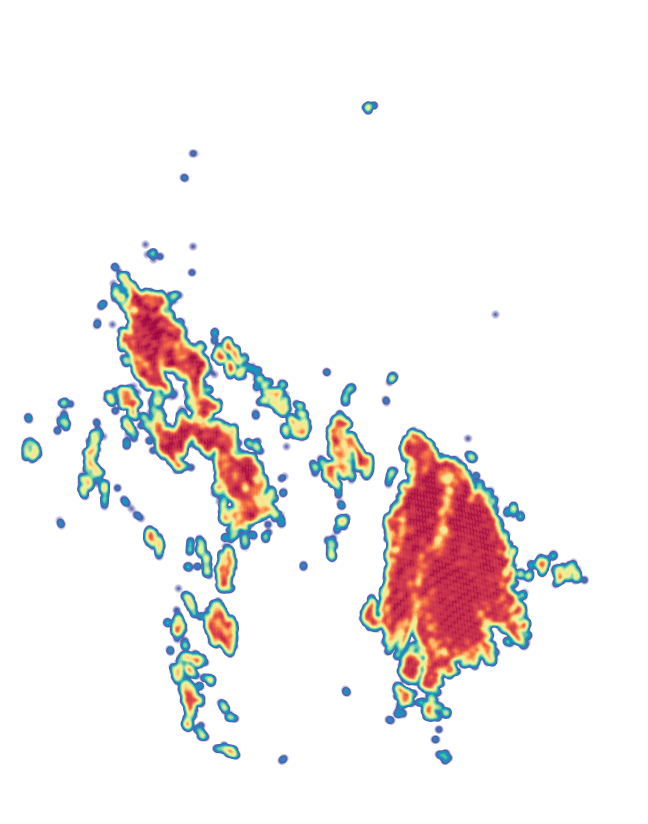
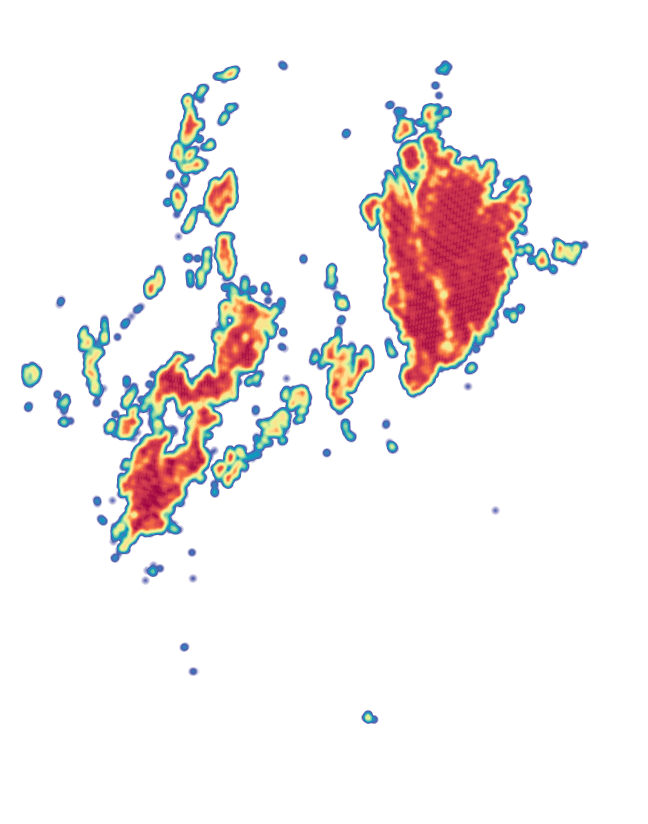
Minor improvements

diff --git a/data.cpp b/data.cpp
@@ -101,23 +101,6 @@ void Data::createCsv(const std::vector<Spherical>& sph, const std::vector<short 
  */
 void Data::maxColumn(const std::vector<Spherical> &sph){
     std::vector<short int> max_picture;
-    /*for (int i=0;i<L;i++)
-    {
-        short int max_col_i[Nx]; // all elements to 0
-        for (int j=0; j<Nx; j++){
-            max_col_i[j] = 0;
-        }
-        for (int j=0; j<Pixels[i].size(); j++){
-            if (Pixels[i][j] > max_col_i[j%Nx])
-            {
-                max_col_i[j%Nx] = Pixels[i][j];
-            }
-        }
-        for (auto elem : max_col_i)
-        {
-            max_picture.push_back(elem);
-        }
-    }*/
     for (int i=0;i<Pixels[0].size();i++)
     {
         short int max_col_i = 0;
@@ -162,7 +145,7 @@ void Data::plotImage(int Nx, int Ny, const std::vector<short int>& image, const 
     obtainLimitsMap(sph); // gives the maximum/minimum latitude and longitude as max_lat, min_lat, max_long, min_long
     for(int i = 0 ; i < image.size() ; ++i) {
         value = image[i];
-        aprox_row = (int)round(Ny*static_cast<double>(sph[i].latitude-min_lat)/(max_lat-min_lat));
+        aprox_row = Ny - (int)round(Ny*static_cast<double>(sph[i].latitude-min_lat)/(max_lat-min_lat)); // Added Ny begining as orifin is bottom left
         aprox_column = (int)round(Nx*static_cast<double>(sph[i].longitude-min_lon)/(max_lon-min_lon));
         heatmap_add_weighted_point(hm, aprox_column, aprox_row, value); // TODO: Should plot based on (lat,row) not (row,column)
     }
